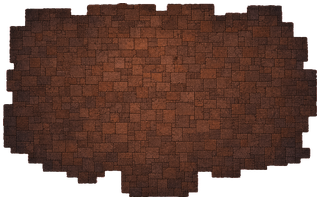
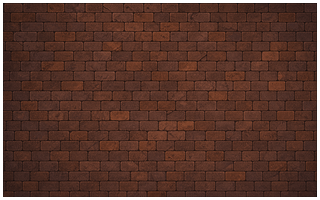
Regenerate the library floor plate as a clean rectangle
The first floor-plate regeneration came back with a naturally irregular,
scalloped silhouette instead of a clean rectangle — cosmetic (walkable
coverage and both exits still checked out clean), but rougher-looking
than every other room, whose plates all fill the frame edge to edge.

Re-dispatched with the prompt made explicit about it: "filling the ENTIRE
frame edge to edge as a clean rectangle with NO gaps, NO cutouts, and NO
irregular border." Landed a full rectangle this time (walkable coverage
89%, up from 72%). Re-fit, walk mask rebuilt, re-signed-off, sw.js bumped
to v74.

diff --git a/games/the-game/sw.js b/games/the-game/sw.js
@@ -1,6 +1,6 @@
 importScripts("../../shared/sw-core.js");
 
-GCRegisterServiceWorker("the-game-v73", [
+GCRegisterServiceWorker("the-game-v74", [
   "./",
   "./index.html",
   "./style.css",
